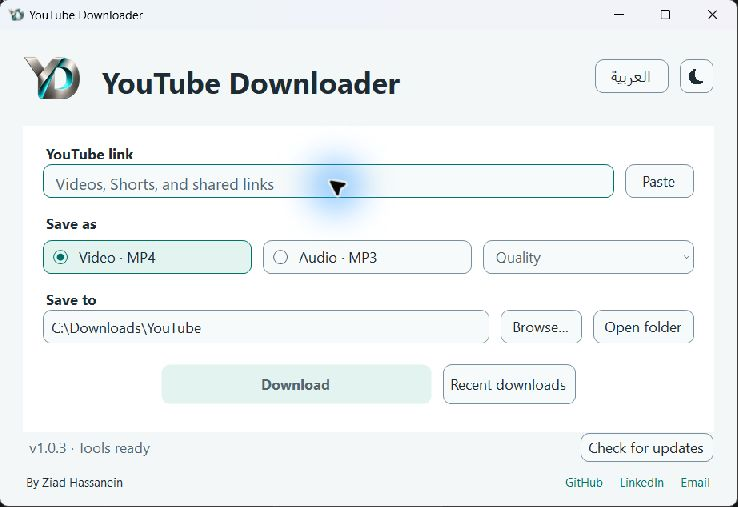
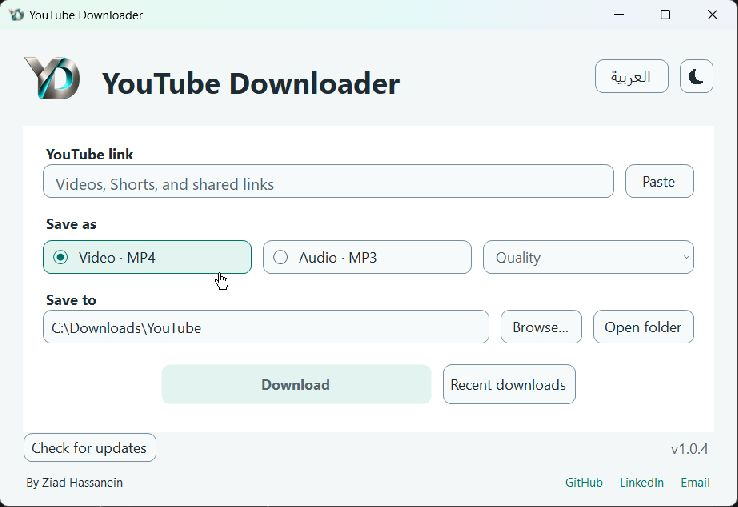
Align update footer with action left and version right

diff --git a/src/App.cs b/src/App.cs
@@ -51,7 +51,7 @@ namespace YouTubeDownloader {
         private readonly ThemeProgress progress=new ThemeProgress();
         private TableLayoutPanel content=new TableLayoutPanel();
         private ThemeScrollHost scroll;
-        private TableLayoutPanel branding;
+        private TableLayoutPanel branding, updateRow;
         private AppRelease availableUpdate;
         private bool checkingUpdate, installingUpdate;
         private readonly ToolSet tools;
@@ -194,8 +194,10 @@ namespace YouTubeDownloader {
             if(!tools.Ready) { statusMood=1; statusIcon.Tone=StatusTone.Error; }
             content=page;
             ConfigureButton(update,"Check for updates"); update.Width=168; update.Height=38; update.Click+=async delegate { if(availableUpdate==null) await CheckUpdateAsync(true); else await InstallUpdateAsync(); };
-            toolsStatus.Text=ToolsText(); toolsStatus.AutoSize=true; toolsStatus.Tag="muted";
-            Add(Row(toolsStatus,update),0);
+            toolsStatus.Text=VersionText(); toolsStatus.AutoSize=true; toolsStatus.Tag="muted"; toolsStatus.Dock=DockStyle.Fill; toolsStatus.TextAlign=ContentAlignment.MiddleRight; toolsStatus.Margin=new Padding(12,0,0,0);
+            updateRow=new TableLayoutPanel { AutoSize=true,ColumnCount=2,RowCount=1,Margin=new Padding(0) };
+            updateRow.ColumnStyles.Add(new ColumnStyle(SizeType.Absolute,168)); updateRow.ColumnStyles.Add(new ColumnStyle(SizeType.Percent,100));
+            update.Anchor=AnchorStyles.Left; updateRow.Controls.Add(update,0,0); updateRow.Controls.Add(toolsStatus,1,0); Add(updateRow,0);
             var author=new Label { Text="By Ziad Hassanein",AutoSize=true,ForeColor=Muted,Font=new Font(Font.FontFamily,9f),Margin=new Padding(0) };
             var socials=new FlowLayoutPanel { AutoSize=true,AutoSizeMode=AutoSizeMode.GrowAndShrink,Margin=new Padding(0),WrapContents=false };
             foreach(var entry in new[]{new[]{"GitHub","https://github.com/ZiadHassanein"},new[]{"LinkedIn","https://www.linkedin.com/in/ziad-hassanein/"},new[]{"Email","mailto:ziadmuhammed501@gmail.com"}}) {
@@ -246,13 +248,13 @@ namespace YouTubeDownloader {
             var row=new TableLayoutPanel { AutoSize=true,Dock=DockStyle.Fill,ColumnCount=2,RowCount=1,Margin=new Padding(0) }; row.ColumnStyles.Add(new ColumnStyle(SizeType.Absolute,44)); row.ColumnStyles.Add(new ColumnStyle(SizeType.Percent,100));
             icon.Margin=new Padding(12,1,0,0); row.Controls.Add(icon,0,0); row.Controls.Add(copy,1,0); return row;
         }
-        private string ToolsText() { return tools.Ready ? F("v{0} · Tools ready",AppUpdates.Current.ToString(3)) : F("v{0} · Missing: {1}",AppUpdates.Current.ToString(3),tools.Missing); }
+        private string VersionText() { return "v"+AppUpdates.Current.ToString(3); }
         private void SetLanguage(string value) {
             if(busy || installingUpdate) return;
             state.Language=value=="ar" ? "ar" : "en"; ApplyLanguage(); ApplyTitleBarTheme(); RepaintInterface(); SaveState();
         }
         private void CaptureLayout(Control parent) {
-            if(parent==branding) return;
+            if(parent==branding || parent==updateRow) return;
             var table=parent as TableLayoutPanel;
             if(table!=null && table.ColumnCount>1) tableStates.Add(new TableState { Table=table,Columns=table.ColumnStyles.Cast<ColumnStyle>().Select(c=>new ColumnStyle(c.SizeType,c.Width)).ToArray() });
             foreach(Control child in parent.Controls) {
@@ -262,6 +264,7 @@ namespace YouTubeDownloader {
         }
         private void ApplyDirection() {
             scroll.IsArabic=IsArabic;
+            update.IsArabic=IsArabic;
             foreach(var saved in tableStates) {
                 for(int i=0;i<saved.Columns.Length;i++) {
                     var original=saved.Columns[IsArabic ? saved.Columns.Length-1-i : i];
@@ -305,7 +308,7 @@ namespace YouTubeDownloader {
                 var selected=quality.SelectedItem as VideoQuality; UpdateQualityChoices();
                 if(selected!=null && checkedInfo!=null && !IsAudio) { int index=checkedInfo.Qualities.FindIndex(q=>q.Resolution==selected.Resolution && q.Selector==selected.Selector); if(index>=0) quality.SelectedIndex=index; }
                 stage.Text=T(statusHeading); progressDetail.Text=statusIsProgress ? Texts.Progress(state.Language,statusMessage) : T(statusMessage);
-                toolsStatus.Text=ToolsText(); updateHeading.Text=T(updateHeadingKey); updateMessage.Text=F(updateMessageKey,updateMessageArgs);
+                toolsStatus.Text=VersionText(); toolsStatus.AccessibleName=T("App version"); updateHeading.Text=T(updateHeadingKey); updateMessage.Text=F(updateMessageKey,updateMessageArgs);
                 updateNotice.AccessibleName=T("App update status"); noticeDismiss.AccessibleName=T("Dismiss update message");
                 updateNotice.UpdateLook(colors,IsArabic);
             } finally { for(int i=controls.Count-1;i>=0;i--) controls[i].ResumeLayout(true); scroll.EndContentUpdate(); if(updateNotice.Visible && noticeAnchor!=null) updateNotice.ShowNear(this,noticeAnchor); }

diff --git a/tests/InterfaceChecks.cs b/tests/InterfaceChecks.cs
@@ -55,6 +55,8 @@ internal static class InterfaceChecks {
                             if(Field<TableLayoutPanel>(window,"content").Width<400 || stage.Width==0 || stage.Height==0) throw new Exception("Language switching collapsed the content layout");
                             if(!focused.Focused) throw new Exception("Language switching lost keyboard focus");
                             if(!Field<Button>(window,"paste").Visible || !Field<Label>(window,"toolsStatus").Visible || !url.Visible || !theme.Visible) throw new Exception("Language change hid an essential control");
+                            var update=Field<ThemeButton>(window,"update"); var version=Field<Label>(window,"toolsStatus"); var footer=(TableLayoutPanel)update.Parent;
+                            if(footer.GetColumn(update)!=0 || footer.GetColumn(version)!=1 || update.IsArabic!=arabic || version.TextAlign!=ContentAlignment.MiddleRight || version.Text!="v"+AppUpdates.Current.ToString(3) || update.Left>=version.Left) throw new Exception("Language change moved the fixed update/version footer, broke text direction, or restored tool text");
                             if(Field<Button>(window,"cancel").Visible || Field<Button>(window,"openFile").Visible || Field<ThemeProgress>(window,"progress").Visible || Field<NoticePopover>(window,"updateNotice").Visible) throw new Exception("Language change revealed an inactive control");
                             if(painted<=before) throw new Exception("The status label was not repainted: stage="+stage.Bounds+", screen="+stage.PointToScreen(Point.Empty)+", content="+Field<TableLayoutPanel>(window,"content").Bounds+", viewport="+Field<ThemeScrollHost>(window,"scroll").Controls[0].Bounds);
                             pass++;

diff --git a/src/Texts.cs b/src/Texts.cs
@@ -27,7 +27,7 @@ namespace YouTubeDownloader {
             {"Couldn't check for updates","تعذّر البحث عن تحديث"}, {"Check your internet connection, then choose Check for updates again.","تحقق من اتصال الإنترنت، ثم ابحث عن تحديث مجددًا."},
             {"Preparing your update","جارٍ تجهيز التحديث"}, {"The app will restart when the verified update is ready.","سيُعاد تشغيل التطبيق بعد التحقق من التحديث وتجهيزه."},
             {"Update couldn't be installed","تعذّر تثبيت التحديث"}, {"Your current app is ready to use. Check your connection and choose Retry update.","يمكنك استخدام الإصدار الحالي. تحقق من الاتصال ثم اضغط إعادة التحديث."},
-            {"v{0} · Tools ready","الإصدار {0} · الأدوات جاهزة"}, {"v{0} · Missing: {1}","الإصدار {0} · أدوات غير متوفرة: {1}"},
+            {"App version","إصدار التطبيق"},
             {"Switch to light theme","التبديل إلى المظهر الفاتح"}, {"Switch to dark theme","التبديل إلى المظهر الداكن"}, {"Switch to Arabic","التبديل إلى العربية"}, {"Switch to English","التبديل إلى الإنجليزية"},
             {"Scroll page","تمرير الصفحة"}, {"Use the arrow keys, Page Up, Page Down, Home, or End to scroll.","استخدم الأسهم أو Page Up أو Page Down أو Home أو End للتمرير."},
             {"Information","معلومة"}, {"Success","نجاح"}, {"Error","خطأ"},

diff --git a/src/AssemblyInfo.cs b/src/AssemblyInfo.cs
@@ -6,6 +6,6 @@ using System.Runtime.InteropServices;
 [assembly: AssemblyCompany("Ziad Hassanein")]
 [assembly: AssemblyProduct("YouTube Downloader")]
 [assembly: AssemblyCopyright("Copyright © 2026 Ziad Hassanein")]
-[assembly: AssemblyVersion("1.0.3.0")]
-[assembly: AssemblyFileVersion("1.0.3.0")]
+[assembly: AssemblyVersion("1.0.4.0")]
+[assembly: AssemblyFileVersion("1.0.4.0")]
 [assembly: ComVisible(false)]

diff --git a/README.md b/README.md
@@ -16,7 +16,7 @@ A desktop app for saving YouTube videos as MP4 or extracting MP3 audio. Paste a 
 
 ## Get started
 
-1. Download `YouTubeDownloader-v1.0.3-windows-x64.zip` from the release page.
+1. Download `YouTubeDownloader-v1.0.4-windows-x64.zip` from the release page.
 2. Extract the ZIP to a writable folder.
 3. If yt-dlp, FFmpeg, or Deno are missing, run `SetupTools.cmd` once. It installs only missing tools through Windows Package Manager.
 4. Open `YouTubeDownloader.exe`, paste a video link, and wait for its available qualities to appear.
@@ -42,6 +42,7 @@ Windows 10/11 x64 and .NET Framework 4.8 are required. Windows 11 includes the r
 - Equal-width MP4 / MP3 / quality controls filling the row, with rounded inputs and buttons.
 - Automatic checks on paste, a helpful link placeholder, and concise errors with recovery steps.
 - Clear feedback when the app is up to date or an update check fails.
+- Update action on the left and a simple version label on the right in both languages.
 - Theme-matched scrolling, anchored folder/update popovers, and automatic message dismissal after five seconds.
 - A larger transparent YD mark in the app header and taskbar.
 - Link cleared after a successful download; every launch starts with an empty link.
